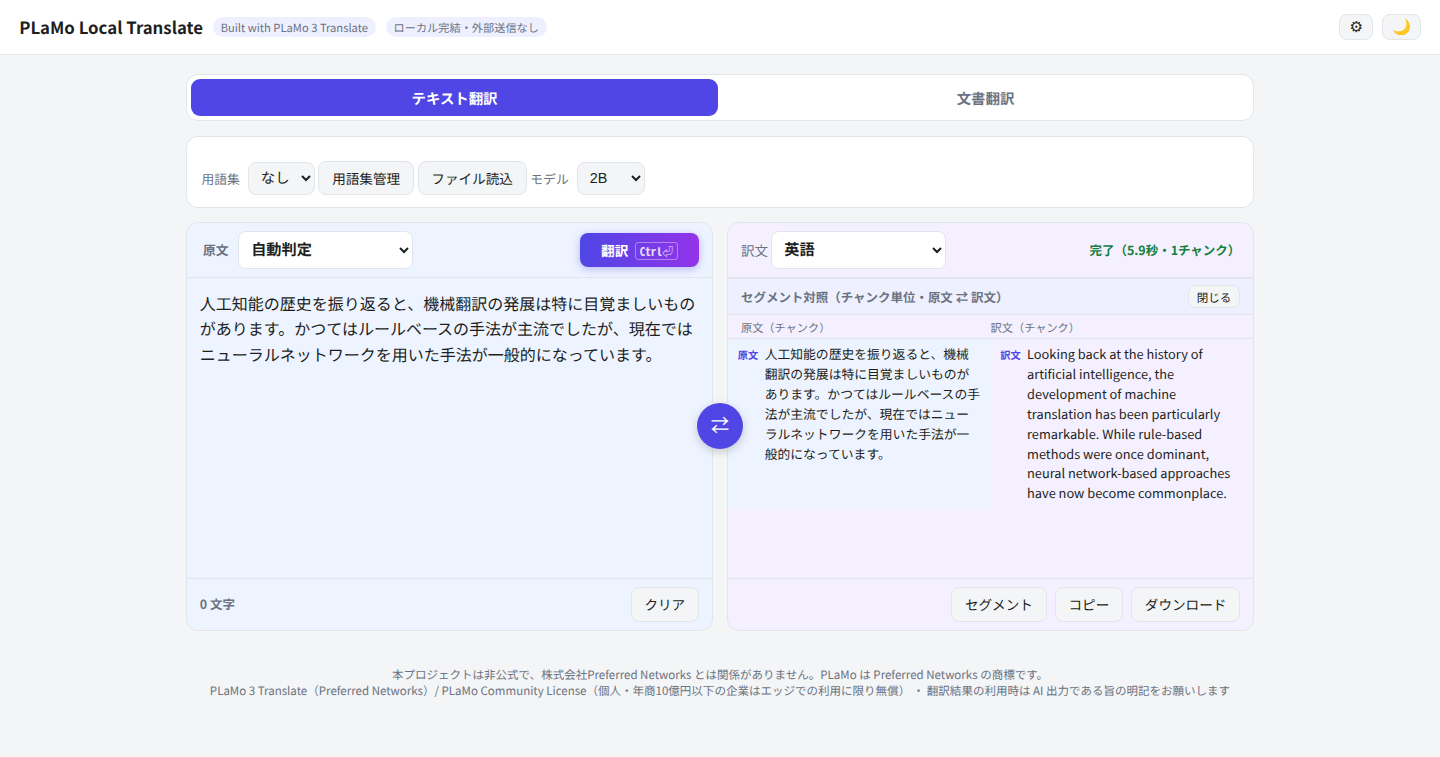
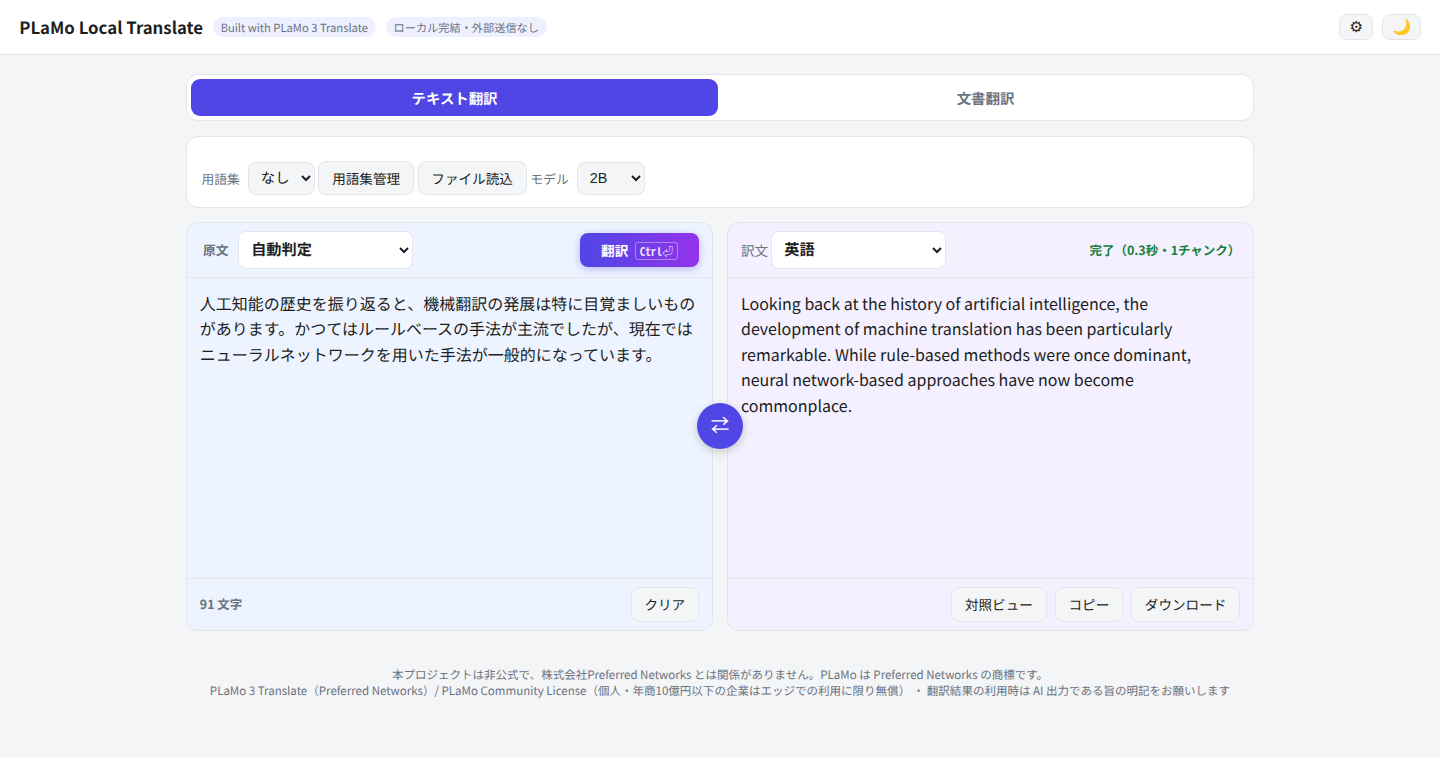
release: v1.0.1 — 文単位対照ビュー・自動表示廃止・スクショ更新

Changed region(s): [[0.5, 0.3646, 0.8438, 0.6684], [0.6562, 0.79, 0.7188, 0.8203], [0.125, 0.79, 0.1875, 0.8203]]

diff --git a/CHANGELOG.md b/CHANGELOG.md
@@ -2,7 +2,7 @@
 
 PLaMo Local Translate の変更履歴。形式は [Keep a Changelog](https://keepachangelog.com/ja/1.1.0/)、バージョン管理は [Semantic Versioning](https://semver.org/lang/ja/) に準拠します。
 
-## [Unreleased]
+## [1.0.1] - 2026-11-14
 
 ### Changed
 - テキスト翻訳のセグメント対照ビューを文単位の原文⇄訳文対照に改善（表示専用の簡易ヒューリスティック: 文数が一致すれば 1:1、不一致チャンクは累積文字数比率の貪欲アライメント、それでも取れない場合はチャンク単位表示にフォールバック）。対照表示は訳文ペイン内埋め込みから全文幅・リサイズ可能なモーダル（#segdlg）に移行し、チャンク境界ラベル・言語表記・hover 双方向ハイライト対応。モーダルは「対照ビュー」ボタン押下時のみ表示（翻訳完了時の自動表示は廃止）。訳文ペインには従来どおり全文テキストを表示
